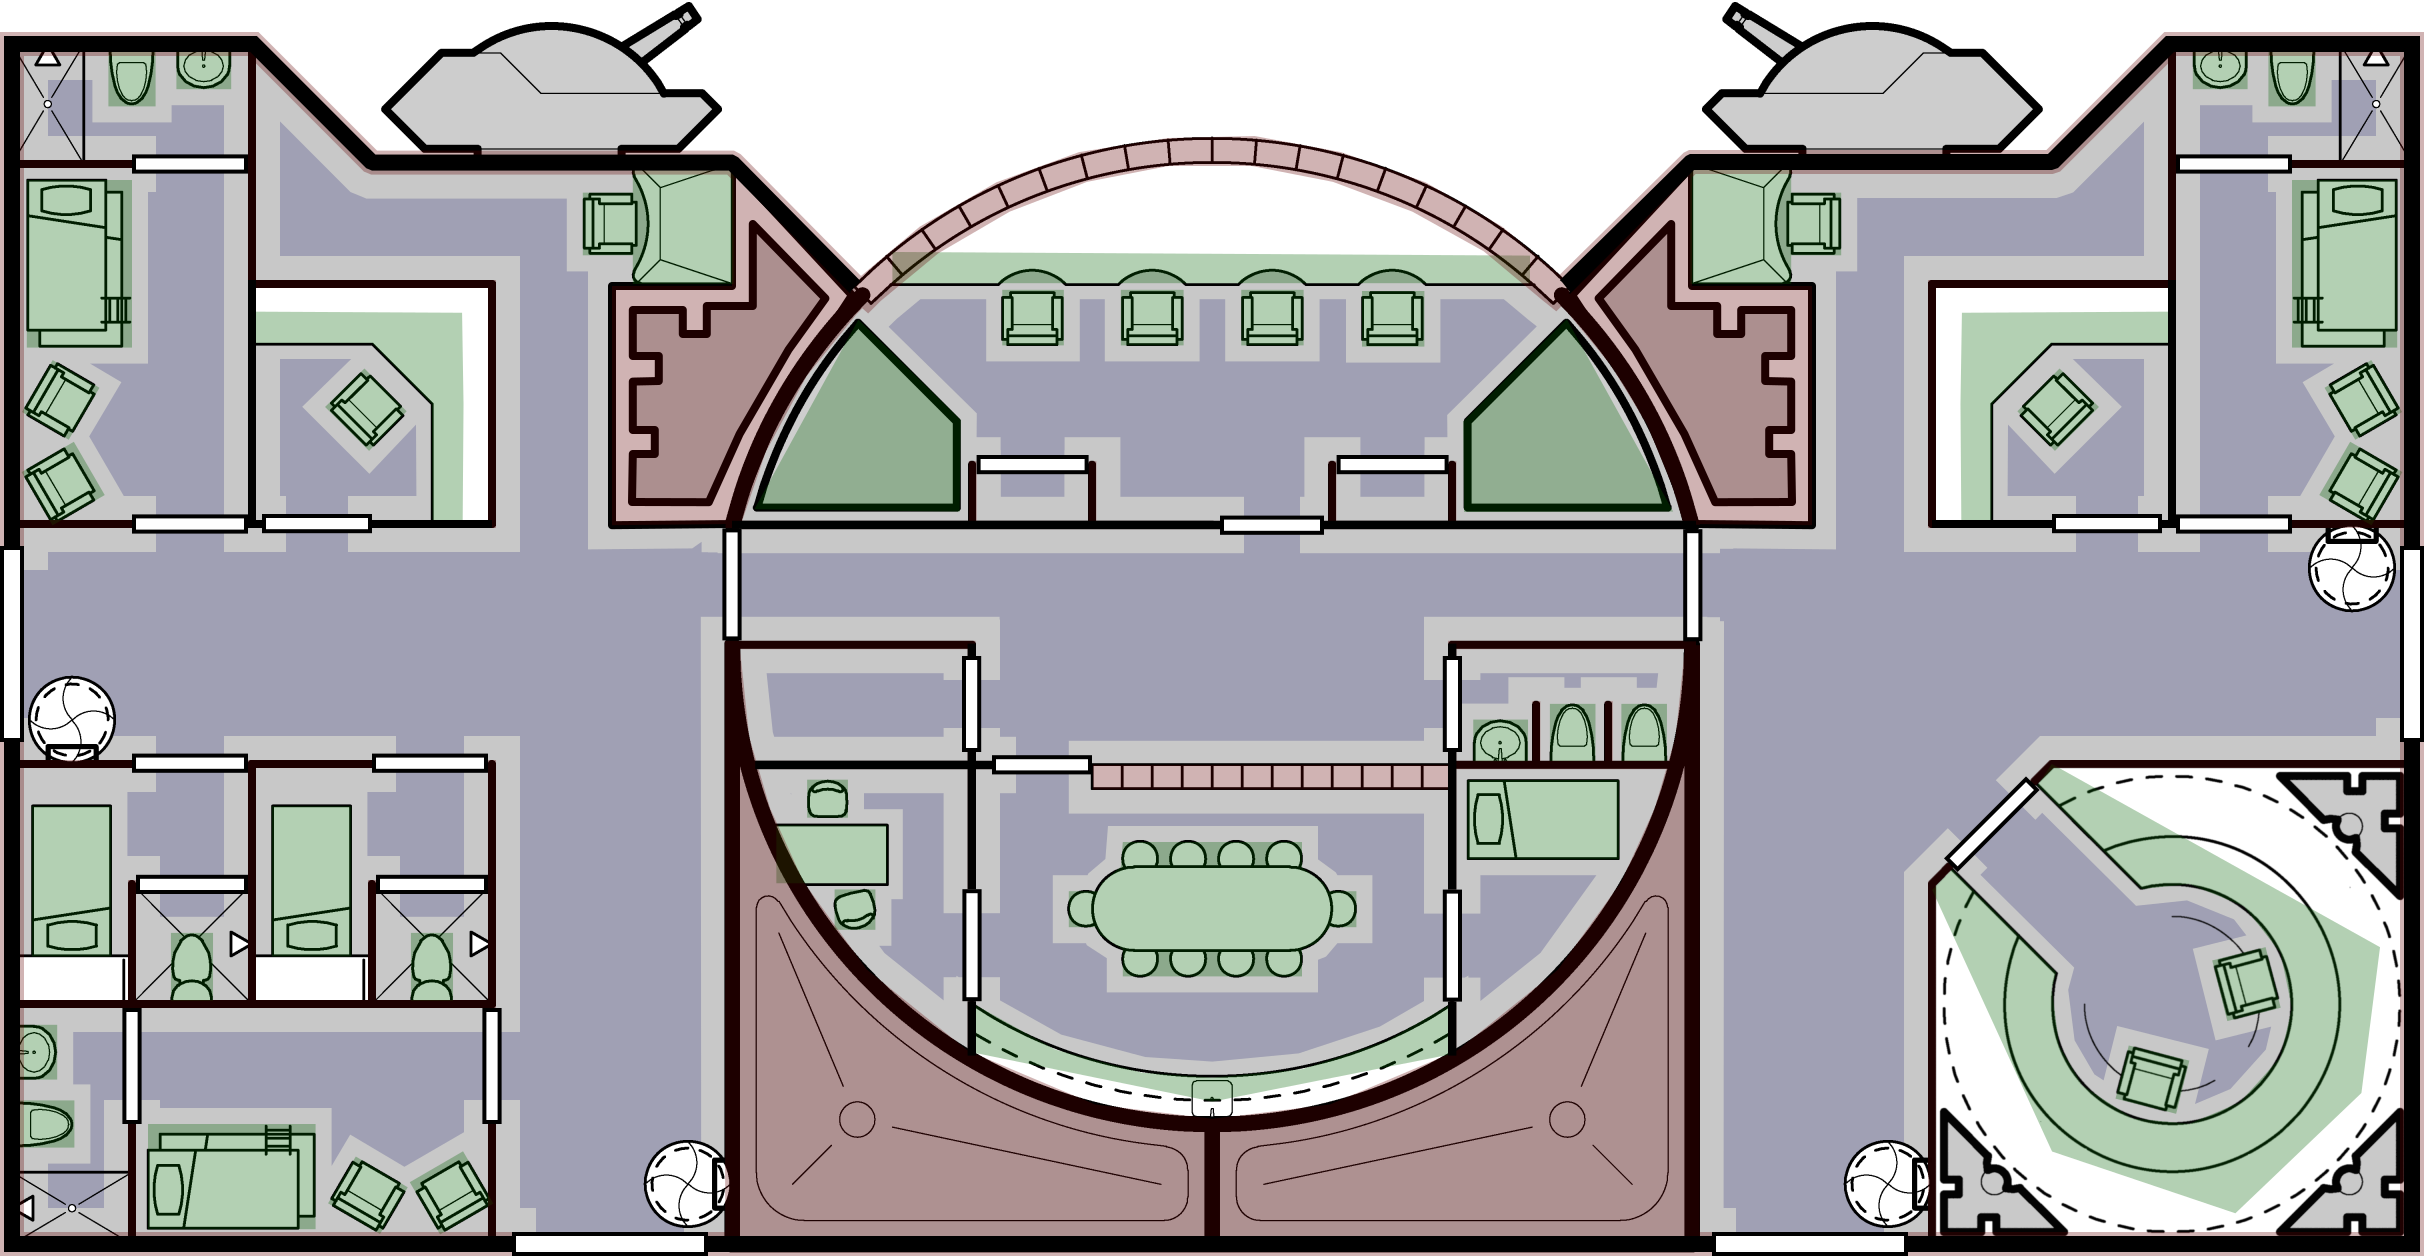
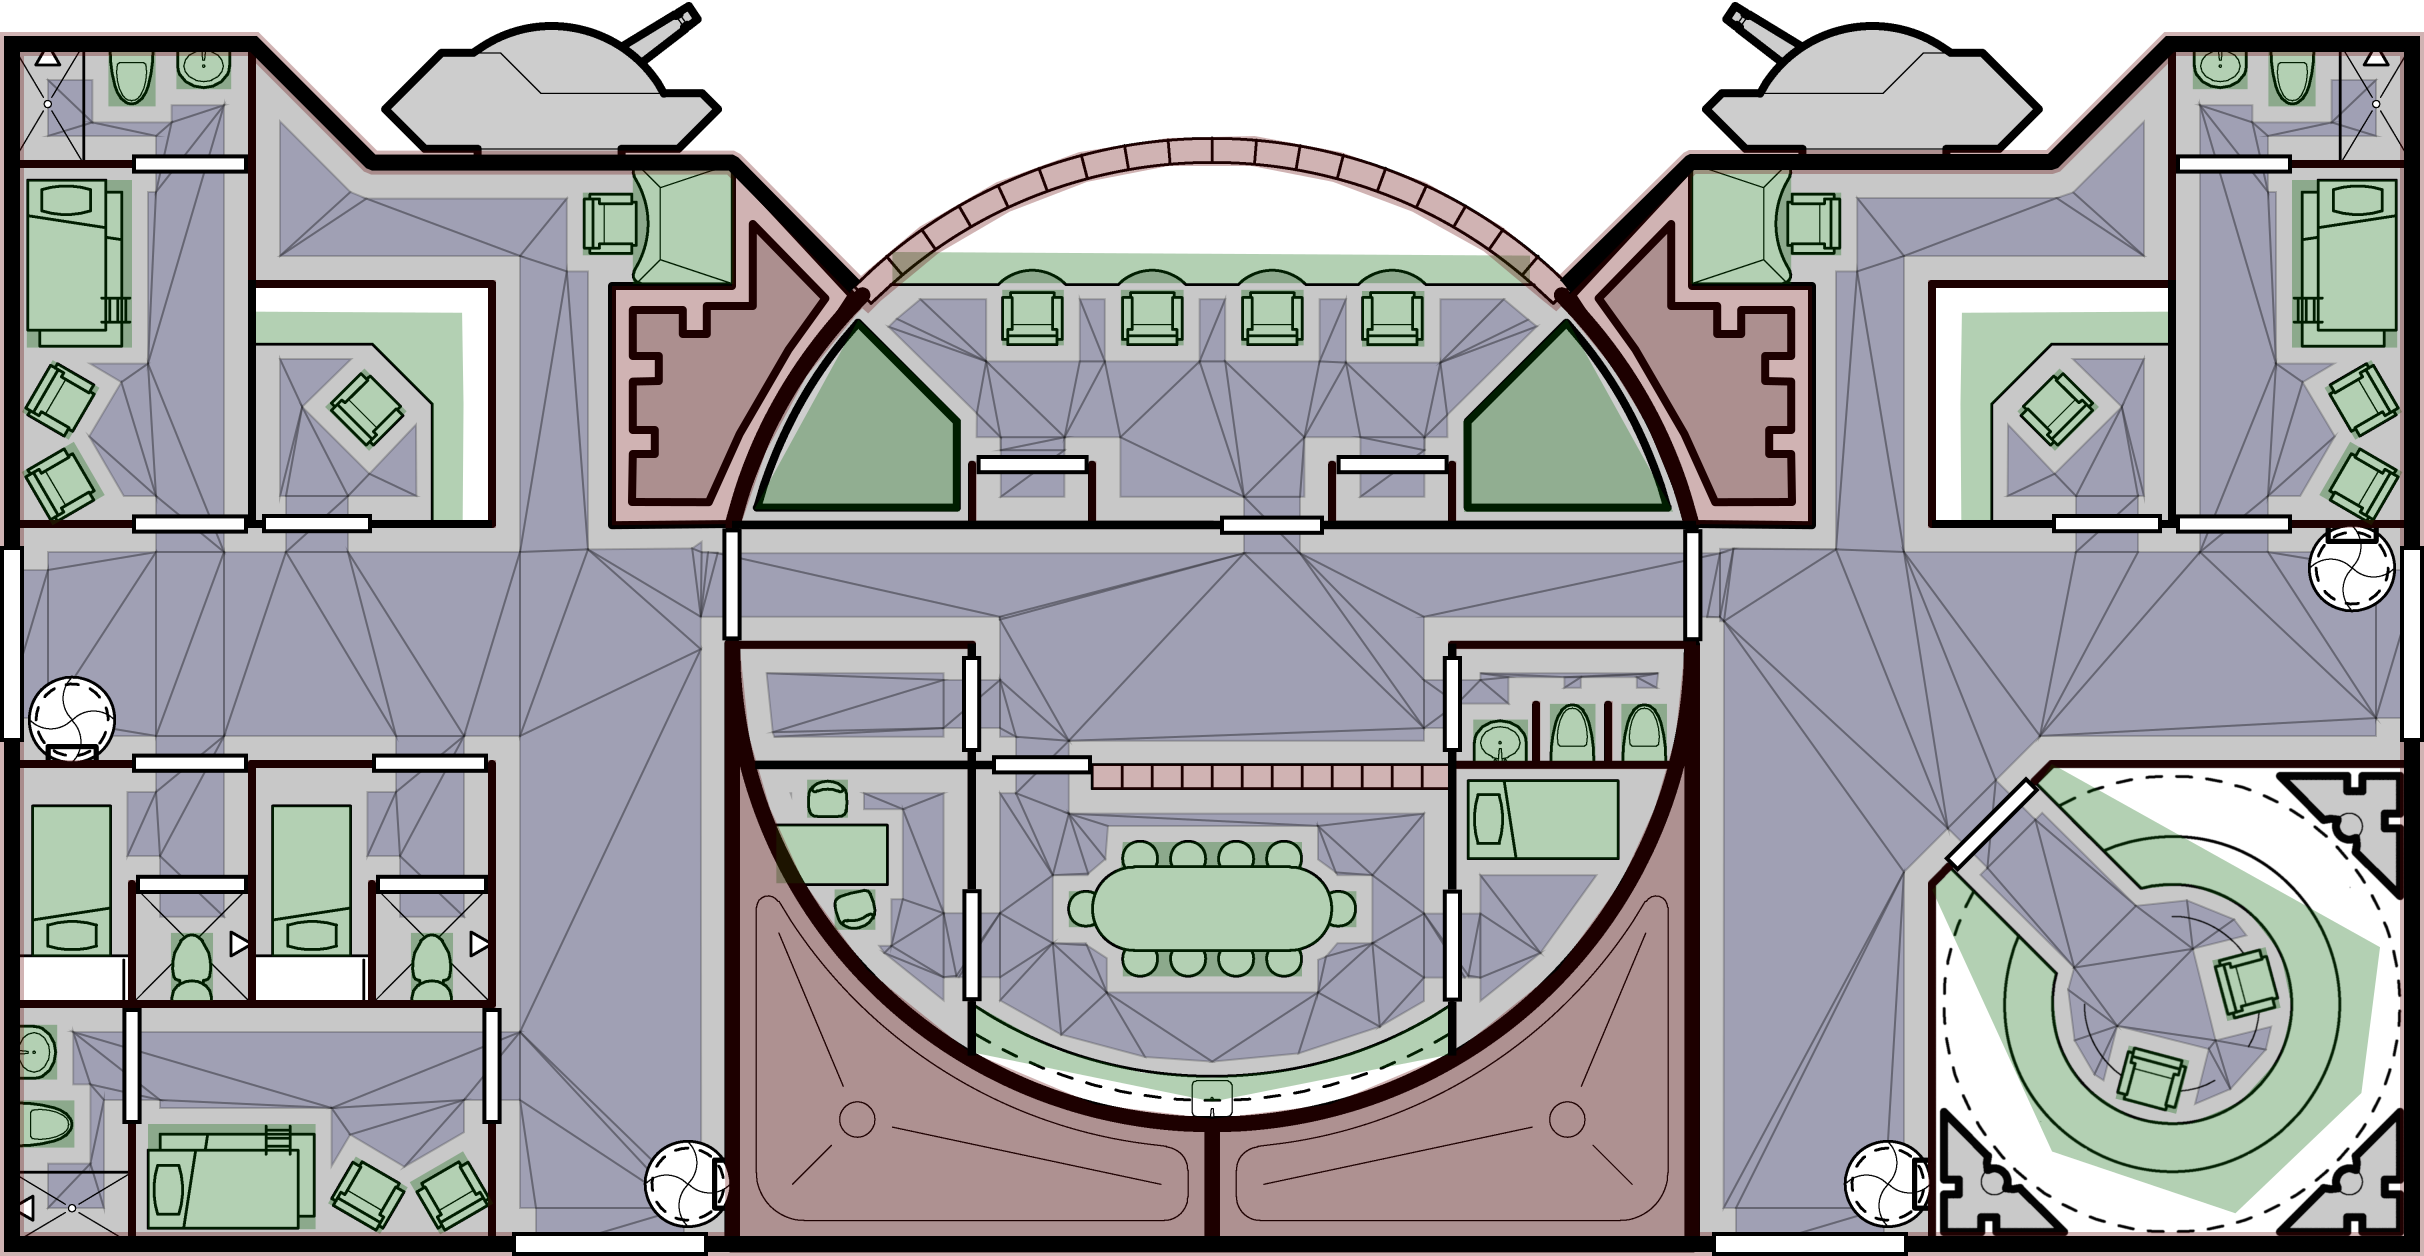
towards NavDemo with editable navpaths/nodes

diff --git a/projects/pathfinding/NavDemo.jsx b/projects/pathfinding/NavDemo.jsx
@@ -7,6 +7,11 @@ import { getSvgPos, geom } from "../service";
 import { Pathfinding } from '../nav/Pathfinding';
 import PanZoom from "../panzoom/PanZoom";
 
+/**
+ * TODO find an interface permitting possibly many
+ * navpaths, and enable/disable navnodes
+ */
+
 export default function NavDemo() {
 
   const [dots, setDots] = useState(/** @type {Vect[]} */ ([]));
@@ -22,7 +27,7 @@ export default function NavDemo() {
     const decomp = geom.polysToTriangulation(navPoly);
     const zone = Pathfinding.createZone(decomp);
     pathfinding.setZoneData(zoneKey, zone);
-    return { pngRect: json.pngRect, navPoly };
+    return { pngRect: json.pngRect, navPoly, zone };
   });
 
   useEffect(() => {
@@ -31,34 +36,68 @@ export default function NavDemo() {
       if (groupId !== null) {
         setPath([dots[0]].concat(pathfinding.findPath(dots[0], dots[1], zoneKey, groupId) || []));
       }
+    } else {
+      setPath([]);
     }
   }, [dots]);
 
   return (
-    <PanZoom gridBounds={gridBounds} initViewBox={initViewBox}>
-      <g className={rootCss}>
+    <PanZoom gridBounds={gridBounds} initViewBox={initViewBox} maxZoom={6}>
+      <g
+        className={rootCss}
+        onPointerDown={_ => lastDownAt.current = Date.now()}
+        onPointerUp={e => {
+          if (Date.now() - lastDownAt.current < 200) {
+            const point = Vect.from(getSvgPos(e));
+            setDots(dots.slice(0, 1).concat(point));
+          }
+        }}
+      >
 
         {data && <>
-          <image {...data.pngRect} className="geomorph" href="/geomorph/g-301--bridge.debug.png" />
+          <image
+            {...data.pngRect}
+            className="geomorph"
+            href="/geomorph/g-301--bridge.debug.png"
+          />
+
           {data.navPoly.map(x => (
             <path
               className="navpoly"
               d={x.svgPath}
-              onPointerDown={_ => lastDownAt.current = Date.now()}
-              onPointerUp={e => {
-                if (Date.now() - lastDownAt.current < 200) {
-                  const point = Vect.from(getSvgPos(e));
-                  setDots(dots.concat(point).slice(-2));
-                }
-              }}
+              // onPointerDown={_ => lastDownAt.current = Date.now()}
+              // onPointerUp={e => {
+              //   if (Date.now() - lastDownAt.current < 200) {
+              //     const point = Vect.from(getSvgPos(e));
+              //     setDots(dots.slice(0, 1).concat(point));
+              //   }
+              // }}
             />
           ))}
+
+          {data.zone.groups.map(nodes =>
+            nodes.map(({ centroid, vertexIds}) =>
+              // <circle fill="rgba(0, 0, 0, 0.2)" cx={centroid.x} cy={centroid.y} r={2.5} />
+              <polygon
+                className="navtri"
+                points={`${vertexIds.map(id => data.zone.vertices[id])}`}
+              />
+          ))}
+
         </>}
 
         <polyline className="navpath" points={`${path}`}/>
 
         <g className="dots">
-          {dots.map((p, i) => <circle key={i} cx={p.x} cy={p.y} r={5}/>)}
+          {dots.map((p, i) =>
+            <circle
+              key={i} cx={p.x} cy={p.y} r={8}
+              onClick={(e) => {
+                setDots(dots.filter((_, j) => i !== j));
+                e.stopPropagation();
+              }}
+            />
+          )}
         </g>
       </g>
 
@@ -74,21 +113,28 @@ const rootCss = css`
   height: inherit;
 
   > path.navpoly {
-    stroke: red;
-    fill: rgba(0, 0, 0, 0.1);
+    fill: rgba(0, 0, 0, 0.01);
     stroke-width: 2;
   }
 
   > g.dots circle {
-    fill: blue;
+    fill: white;
     stroke: black;
-    stroke-width: 0.5;
+    stroke-width: 2;
+    cursor: pointer;
   }
 
   > polyline.navpath {
     fill: none;
     stroke: #00f;
-    stroke-width: 5;
-    stroke-dasharray: 10 5;
+    stroke-width: 4;
+    stroke-dasharray: 20 10;
+  }
+
+  polygon.navtri {
+    fill: rgba(0, 0, 0, 0);
+    &:hover {
+      fill: rgba(0, 0, 0, 0.2);
+    }
   }
 `;

diff --git a/media/scripts/render-layout.js b/media/scripts/render-layout.js
@@ -33,7 +33,7 @@ const outputPath =  path.resolve(outputDir, `${layoutDef.key}${debug ? '.debug.p
 
 /** @type {Geomorph.RenderOpts} */
 const renderOpts = debug
-  ? { scale: 2, obsBounds: true, wallBounds: true, doors: true, labels: true }
+  ? { scale: 2, obsBounds: true, wallBounds: true, doors: true, labels: true, navTris: true }
   : { scale: 2, obsBounds: false, wallBounds: false };
 
 /** @param {Geomorph.LayoutDef} def */
